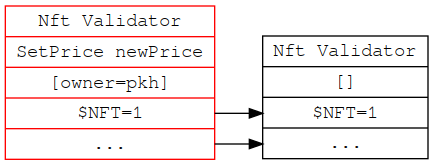
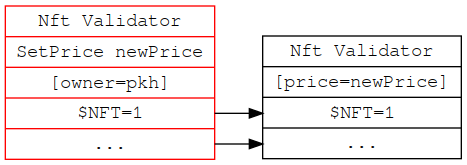
descriptions

diff --git a/README.md b/README.md
@@ -38,12 +38,13 @@ NFT endpoint FSM
 ![Nft SM](./nftstates.png)
 
 NFT minting  
-![NFT Minting](./nftspec.png)
+![NFT Minting](./nftspec.png)    
+%startParams is provided by the caller and must have authorShare in [0,1]
+$NFT(utxo) has the TokenName be the sha256 of the actual asset it represents
 
 Buying NFT
 ![NFT Buying](./nftbuyspec.png)
 
 Setting Price of NFT  
-![NFT SetPrice](./nftsetpricespec.png)
-
-This is an interesting example because it obviously needs the transaction to be signed by the "pkh". We specify that under the diagram.
+![NFT SetPrice](./nftsetpricespec.png)   
+The transaction must be signed by pkh
